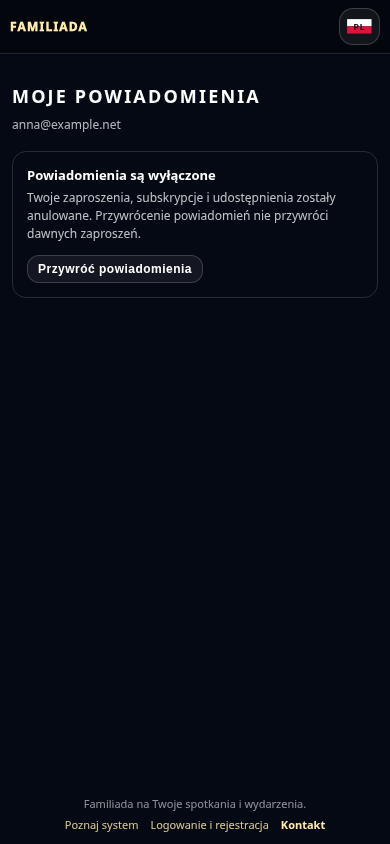
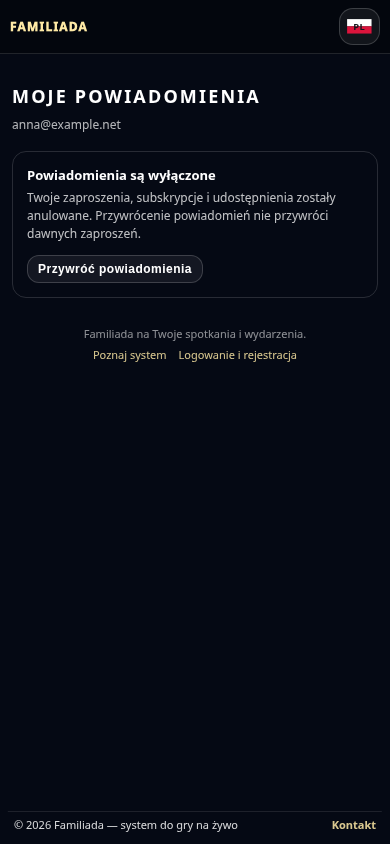
feat(mail): unify account preferences and expire private center sessions

Changed region(s): [[0.0308, 0.9242, 0.9846, 0.9858], [0.2154, 0.3697, 0.7692, 0.4313]]

diff --git a/tests/unit/mail-center-preferences.test.js b/tests/unit/mail-center-preferences.test.js
@@ -1,0 +1,20 @@
+import test from 'node:test';
+import assert from 'node:assert/strict';
+import fs from 'node:fs';
+import vm from 'node:vm';
+const source=fs.readFileSync(new URL('../../web/shared/js/core/user-flags.js',import.meta.url),'utf8').replace(/^import .*;\n/gm,'').replaceAll('export async function','async function');
+function context(result){
+ const calls=[];const scope=vm.createContext({sb:()=>({rpc:async(name,args)=>{calls.push({name,args});return result;},from:()=>assert.fail('notification preference must use canonical RPC')})});vm.runInContext(source,scope);return {scope,calls};
+}
+test('notification UI getter reads effective global flag through current account RPC and rejects unknown state',async()=>{
+ for(const enabled of [true,false]){
+  const app=context({data:enabled});assert.equal(await app.scope.getUserEmailNotificationsFlag('account'),enabled);
+  assert.equal(app.calls[0].name,'get_my_email_notifications');assert.equal(app.calls[0].args.p_user_id,'account');
+ }
+ for(const result of [{data:null},{data:{}},{error:new Error('backend unavailable')}])await assert.rejects(context(result).scope.getUserEmailNotificationsFlag('account'));
+});
+test('notification UI setter uses explicit server restoration instead of flag-only writes',async()=>{
+ const app=context({data:true});await app.scope.setUserEmailNotificationsFlag('account',true);
+ assert.equal(app.calls[0].name,'set_my_email_notifications');assert.equal(app.calls[0].args.p_user_id,'account');assert.equal(app.calls[0].args.p_enabled,true);
+ await assert.rejects(context({error:new Error('unconfirmed')}).scope.setUserEmailNotificationsFlag('account',true));
+});

diff --git a/web/shared/js/core/user-flags.js b/web/shared/js/core/user-flags.js
@@ -8,30 +8,17 @@ import { sb } from "./supabase.js?v=v2026-10-12T14530";
 export async function getUserEmailNotificationsFlag(userId) {
   if (!userId) throw new Error("getUserEmailNotificationsFlag: brak userId");
 
-  // ensure row exists (first time -> defaults from DB)
-  await sb()
-    .from("user_flags")
-    .upsert({ user_id: userId }, { onConflict: "user_id" });
-
-  const { data, error } = await sb()
-    .from("user_flags")
-    .select("email_notifications")
-    .eq("user_id", userId)
-    .maybeSingle();
+  const { data, error } = await sb().rpc("get_my_email_notifications", { p_user_id: userId });
 
   if (error) throw error;
-  return data?.email_notifications !== false;
+  if (typeof data !== "boolean") throw new Error("invalid_notification_preference");
+  return data;
 }
 
 export async function setUserEmailNotificationsFlag(userId, value) {
   if (!userId) throw new Error("setUserEmailNotificationsFlag: brak userId");
 
-  const { error } = await sb()
-    .from("user_flags")
-    .upsert(
-      { user_id: userId, email_notifications: !!value },
-      { onConflict: "user_id" }
-    );
+  const { error } = await sb().rpc("set_my_email_notifications", { p_user_id: userId, p_enabled: !!value });
 
   if (error) throw error;
 }

diff --git a/web/mail/index.html b/web/mail/index.html
@@ -55,8 +55,9 @@
         </div>
       </div>
     </section>
+    <aside class="mail-discover"><span data-i18n="mailCenter.discover">Familiada na Twoje spotkania i wydarzenia.</span><a href="/" data-i18n="mailCenter.explore">Poznaj system</a><a href="/login/" data-i18n="mailCenter.register">Logowanie i rejestracja</a></aside>
   </main>
-  <footer class="mail-discover"><span data-i18n="mailCenter.discover">Familiada na Twoje spotkania i wydarzenia.</span><a href="/" data-i18n="mailCenter.explore">Poznaj system</a><a href="/login/" data-i18n="mailCenter.register">Logowanie i rejestracja</a><button class="btn-contact-footer" type="button" data-contact-modal data-i18n="common.contactBtn">Kontakt</button></footer>
+  <footer class="footer mail-footer"><div data-i18n="common.footer.left">© 2026 Familiada — system do gry na żywo</div><button class="btn-contact-footer" type="button" data-contact-modal data-i18n="common.contactBtn">Kontakt</button></footer>
   <script type="module" src="/shared/js/core/contact-modal.js?v=v2026-10-12T14530"></script>
 </body>
 </html>

diff --git a/cloudflare/maintenance-worker/src/index.js b/cloudflare/maintenance-worker/src/index.js
@@ -8,7 +8,7 @@
 // single-file version if something here looks surprising.
 import { handleMailCenterApi } from "./lib/mail-center/api.js";
 import { handleInboundEmail } from "./lib/email/inbound-email.js";
-import { cleanupExpiredAttachments, cleanupExpiredE2EEmails } from "./lib/core/cleanup.js";
+import { cleanupExpiredAttachments, cleanupExpiredE2EEmails, cleanupMailCenter } from "./lib/core/cleanup.js";
 import { handleE2EApi, handleE2ELoginBypass, authorizeE2EApi } from "./lib/e2e/e2e-api.js";
 import { getState } from "./lib/core/state.js";
 import { json, withHeaders } from "./lib/core/http.js";
@@ -50,6 +50,7 @@ export default {
     ctx.waitUntil(Promise.all([
       cleanupExpiredAttachments(env),
       cleanupExpiredE2EEmails(env),
+      cleanupMailCenter(env),
     ]));
   },
 

diff --git a/web/shared/translation/uk.js b/web/shared/translation/uk.js
@@ -554,6 +554,7 @@ const uk = {
     emailNotifSavedOn: "E-mail сповіщення увімкнено.",
     emailNotifSavedOff: "E-mail сповіщення вимкнено.",
     emailNotifSaveFailed: "Не вдалося зберегти налаштування сповіщень. Спробуй ще раз.",
+    emailNotifLoadFailed: "Не вдалося завантажити налаштування сповіщень. Онови сторінку.",
     demo: {
       title: "Демо матеріали",
       hint: "Віднови приклади стартових матеріалів: базу питань, логотипи та готові ігри різних категорій.",

diff --git a/cloudflare/maintenance-worker/src/lib/core/cleanup.js b/cloudflare/maintenance-worker/src/lib/core/cleanup.js
@@ -1,6 +1,15 @@
 // src/lib/cleanup.js -- scheduled (cron) + on-demand cleanup jobs.
 import { getSupabaseConfig, supabaseRequest, supabaseRpc, summarizeSupabaseError } from "./supabase.js";
 
+export async function cleanupMailCenter(env) {
+  try {
+    const result = await supabaseRpc(env, "mail_center_cleanup", {});
+    if (!result.ok) console.error('[cron] mail center cleanup failed:', summarizeSupabaseError(result));
+  } catch (err) {
+    console.error('[cron] mail center cleanup failed:', String(err));
+  }
+}
+
 export async function cleanupExpiredAttachments(env) {
   try {
     const listRes = await supabaseRpc(env, "get_expired_attachments", {});

diff --git a/web/shared/translation/pl.js b/web/shared/translation/pl.js
@@ -567,6 +567,7 @@ const pl = {
     emailNotifSavedOn: "Powiadomienia e-mail zostały włączone.",
     emailNotifSavedOff: "Powiadomienia e-mail zostały wyłączone.",
     emailNotifSaveFailed: "Nie udało się zapisać ustawień powiadomień. Spróbuj ponownie.",
+    emailNotifLoadFailed: "Nie udało się odczytać ustawienia powiadomień. Odśwież stronę.",
     demo: {
       title: "Materiały Demo",
       hint: "Przywróć przykładowe materiały startowe: bazy pytań, logo i gotowe gry różnych kategorii.",

diff --git a/web/shared/translation/en.js b/web/shared/translation/en.js
@@ -554,6 +554,7 @@ const en = {
     emailNotifSavedOn: "Email notifications have been turned on.",
     emailNotifSavedOff: "Email notifications have been turned off.",
     emailNotifSaveFailed: "Could not save notification settings. Please try again.",
+    emailNotifLoadFailed: "Could not load your notification setting. Refresh the page.",
     demo: {
       title: "Demo Materials",
       hint: "Restore sample starter materials: a question bank, logos and ready-made games of various categories.",

diff --git a/web/mail/css/mail.css b/web/mail/css/mail.css
@@ -59,4 +59,5 @@
 @media(max-height:500px) and (min-width:621px){.mail-wrap{padding:12px 20px;gap:10px}.mail-preference{padding:8px 0 0}.mail-discover{padding:8px 16px}.mail-discover>span{display:none}}
 
 .mail-wrap [hidden]{display:none!important}
-body.sheet-open .mail-discover [data-contact-modal]{display:none}
+.mail-footer{flex:0 0 auto;width:min(1040px,100%);margin:0 auto;padding:14px 24px 18px;box-sizing:border-box}
+@media(max-width:620px){.mail-footer{padding:12px 14px}}

diff --git a/web/account/js/account.js b/web/account/js/account.js
@@ -78,7 +78,9 @@ async function initEmailNotificationsUi(user) {
     emailNotificationsChk.checked = enabled !== false;
   } catch (e) {
     console.warn("email_notifications load failed", e);
-    emailNotificationsChk.checked = true; // safe default
+    emailNotificationsChk.disabled = true;
+    showEmailNotifSaved(t("account.emailNotifLoadFailed"), "error");
+    return;
   }
 
   emailNotificationsChk.addEventListener("change", async () => {

diff --git a/web/shared/css/base.css b/web/shared/css/base.css
@@ -1083,7 +1083,12 @@ main{
 
 .topbar-sheet-back {
     display: none;
+    align-items: center;
+    justify-content: center;
+    gap: 6px;
+    min-height: 37px;
 }
+.topbar-sheet-back > svg.ico { display: block; }
 
 /* ===== UI Select (custom dropdown) ===== */
 .ui-select {

diff --git a/docs/przekazanie.md b/docs/przekazanie.md
@@ -767,7 +767,7 @@ Gotowy lokalny plik control-identity-preferences-draft.sql; przed przeniesieniem
 
 **358 zakończone:** main38261432758 success2/2 --retries=0/unit459,2 real SMTP, Pages38260925626, branch38260515251 (test14) i38258380406 (konto), SQL38257393434 OK13:42:37Z/isolated38256954899. Root scala mainfed93b0a91; code Control canonical/flags completed. Nie powtarzać358.
 
-**Nowy zakres /mail/ potwierdzony:** maile-granice.md ostatnie sekcje + navmap. Dwie sekcje Subskrypcje i Zadania/udostępnienia (ankiety+urządzenia), globalny stan nad nimi; jeden link potwierdzający przez Go, dane/mutacje po proof, konto→login/account. Powiadomienia global-off nie mają anulować źródeł zarządzanych osobno w centrum; dawny poll_go_global_unsubscribe zamykał subskrypcje/poll_tasks — lokalny nowy wariant tylko preference, source odmowy nadal oddzielne. /tmp/e19-359/global-unsubscribe-prototype.sql + test green (account flag=getter/restore, anonymous root, subscription active preserved). Footer-context-prototype.sql/test green service-only/stabletokens/account/mail-only. Brak359 w repo/produkcji. Trzeba pełny proof/session/races/ACL, wszystkie mailery, portal/front/Go i SMTP screens/gates. Część E19/pkt7, nie nowy główny etap.
+**Nowy zakres /mail/ — ostateczna korekta:** maile-granice.md ostatnie sekcje + navmap. Subskrypcje oraz Zadania (ankiety+urządzenia) w jednej karcie z wypustkami Ankiet, globalny stan nad kartą; Go→centrum, dane/mutacje po potwierdzeniu, konto→login/account. Mail-only global-off zamyka wszystkie anonimowe źródła, ukrywa listy i nie odtwarza ich po przywróceniu. Starszy lokalny wariant /tmp/e19-359 zachowujący subskrypcje jest zastąpiony — nie wdrażać. Dotychczasowy sender-visible token u daje tylko wypisanie, nie odczyt centrum. Pełna stopka ma osobny prywatnie wydany token.360 jeszcze poza produkcją;359 to już zakończona naprawa skrzynki, nie numer centrum. Zakres konta pozostaje mail-only do odpowiedzi na jedyne pytanie architektoniczne o cofanie dostępów.
 
 ### 2026-10-12 — pilna skrzynka admina
 
@@ -779,3 +779,34 @@ Zamknięte na produkcji: **13** kopii usuniętych; Worker38267398689 i
 baza38267398627 zielone. SMTP38267524680: zaproszenie odebrane przez test7,
 po nim SQL potwierdził brak technicznych kopii w skrzynce. Unit463/463.
 Następny krok: wrócić do grafu/centrum `/mail/`; nie powtarzać naprawy359.
+
+### 2026-10-12 — centrum360 na branchu, dalsza kontynuacja
+
+Ostatnie pushe4074de9dc0 i1fc15f574b: prywatna weryfikacja/peek/sesja,
+globalna rezygnacja/listy/źródła i kontrola delivery przed każdą próbą
+dostawcy. Izolacje38281983338 oraz38283742852 success;481 unit przed
+ostatnim pushem. Podglądy są danymi przykładowymi, nie produkcją360.
+Kontakt także anonimowo na wszystkich niezależnych stronach. Telefon:
+Wstecz w wspólnym topbarze, język dostępny bez utraty wpisów, stopka na
+dole. Ostatnia korekta: standardowa linia/podpis/Kontakt, zachęta w treści,
+wyśrodkowana ikona+napis Wstecz. Nowe zrzuty trzeba wypchnąć na branch.
+
+Teraz lokalne preferencje360 i cleanup: retained root przy rejestracji,
+getter Auth+global-off, explicit restore własnego potwierdzonego adresu,
+historyczne u zamyka też anonimowe urządzenia; testy SQL success.
+TTL cleanup zachowuje działającą sesję po15min wygaśnięcia proof i nie
+rusza root/cooldownów. Unit483 aktualnie green; kolejne zmiany przed
+commitem ponownie sprawdzić. Szkice w docs/sql, brak finalnej migracji.
+Wyjątek Kontakt ma queue→inbound message→report/recipient match;
+świadome zgłoszenie, jego potwierdzenie/odpowiedź i zamówiona weryfikacja
+nie są blokowane flagą automatycznych powiadomień. Nie wysyłać rzeczywistego
+zgłoszenia w testach (Telegram) — UI i transport Contact są zastępowane.
+
+Otwarte: Auth fallback nie ma wymaganych cooldown keys/private source,
+sprawdzić transakcję hooka przed wdrożeniem nowego issuer/footer Auth;
+pięć trwałych źródeł zaproszeń queue/claim/requeue/fresh delivery;
+DDL/nowe wyścigi, finalna migracja360, rzeczywiste SMTP+UI branch/main.
+Nie ogłaszać zamkniętego grafu ani produkcji `/mail/`. Sześć etapów głównych
+w kolejce wdrożeń, manual ostatni. Aktualizacje około30–60s, po statusie
+pracować dalej bez następnego „kontynuuj”. Konta9/10 nie używać,14 bez
+konta,15 tylko bezpieczne usuwanie z odtworzeniem,11/12 nie kasować.
